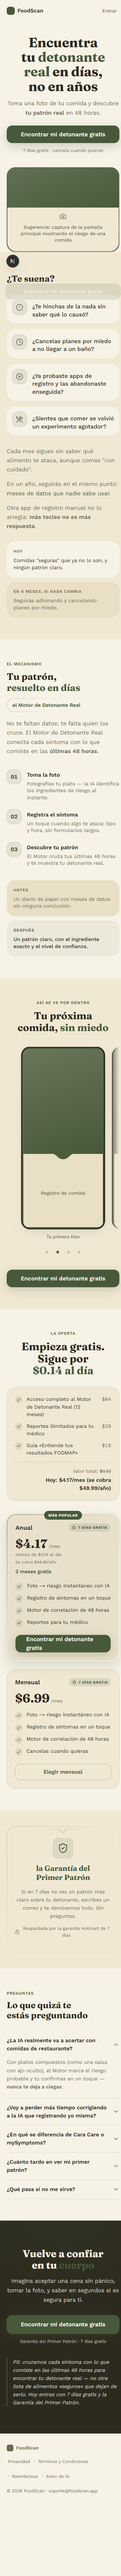
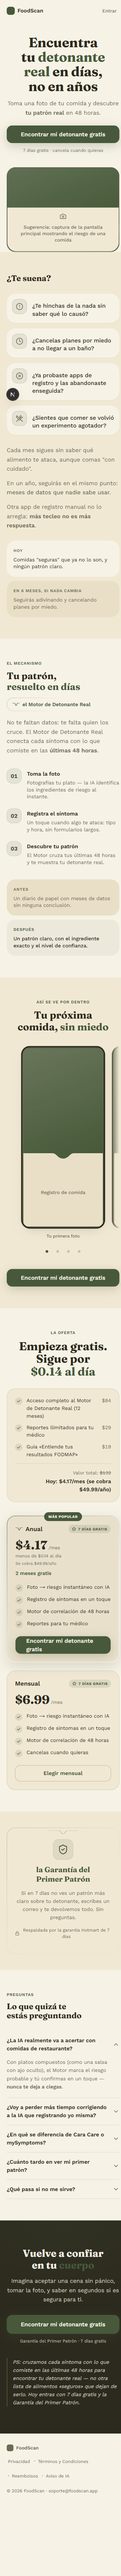
Repetir mordisco en Solucion/Oferta, animar precios y ampliar jerarquia de titulos
Ultima tanda de ajustes de la 5ta revision: el dispositivo ownable aparece ahora
en el chip del mecanismo (Solucion) y en el nombre del plan Anual (Oferta); los
precios de la Oferta cuentan al entrar en pantalla (respeta reduced-motion); se
corrige el offset del focus-visible del boton Mensual; y se separan mas los
tamanos de titulo entre secciones (24/28 - 28/34 - 30/38 - 34/46).

diff --git a/components/landing/Oferta.tsx b/components/landing/Oferta.tsx
@@ -8,7 +8,8 @@
 // la card recomendada (el uso canónico de la técnica) · checkmarks custom.
 // El destino de los CTAs sigue al MODELO de 02C (checkout vs /onboarding).
 
-import { motion } from 'motion/react';
+import { useEffect, useRef, useState } from 'react';
+import { motion, useInView } from 'motion/react';
 import { Star } from 'lucide-react';
 import { CheckCustom, CtaButton, Hairline, Kicker, SectionShell, useReveal, VIEWPORT_ONCE } from './ui';
 import { MarkedCopy, warnCopy, warnRango } from './MarkedCopy';
@@ -60,12 +61,53 @@ function TrialBadge({ dias }: { dias: number }) {
   );
 }
 
+/** Conteo animado del precio (baseline #2 de CLAUDE.md): separa el prefijo/número/decimales
+    para animar SOLO el número, respetando prefers-reduced-motion. */
+function PrecioAnimado({ texto }: { texto: string }) {
+  const match = texto.match(/^([^\d]*)(\d+(?:[.,]\d+)?)(.*)$/);
+  const ref = useRef<HTMLSpanElement | null>(null);
+  const enVista = useInView(ref, { once: true, amount: 0.6 });
+  const [valor, setValor] = useState(0);
+  const objetivo = match ? parseFloat(match[2].replace(',', '.')) : 0;
+  const decimales = match?.[2].includes('.') || match?.[2].includes(',') ? match[2].split(/[.,]/)[1].length : 0;
+
+  useEffect(() => {
+    if (!enVista || !match) return;
+    const reduce = window.matchMedia('(prefers-reduced-motion: reduce)').matches;
+    if (reduce) {
+      setValor(objetivo);
+      return;
+    }
+    const duracion = 450;
+    const inicio = performance.now();
+    let frame: number;
+    const paso = (ahora: number) => {
+      const t = Math.min(1, (ahora - inicio) / duracion);
+      const eased = 1 - (1 - t) * (1 - t);
+      setValor(objetivo * eased);
+      if (t < 1) frame = requestAnimationFrame(paso);
+    };
+    frame = requestAnimationFrame(paso);
+    return () => cancelAnimationFrame(frame);
+    // eslint-disable-next-line react-hooks/exhaustive-deps
+  }, [enVista]);
+
+  if (!match) return <span ref={ref}>{texto}</span>;
+  return (
+    <span ref={ref}>
+      {match[1]}
+      {valor.toFixed(decimales)}
+      {match[3]}
+    </span>
+  );
+}
+
 function Precio({ plan }: { plan: PlanOferta }) {
   return (
     <div>
       <p className="flex items-baseline gap-1">
         <span className="text-[36px] font-bold leading-none tabular-nums text-[var(--text-primary)] [font-family:var(--font-display)]">
-          {plan.precioMes}
+          <PrecioAnimado texto={plan.precioMes} />
         </span>
         <span className="text-[14px] text-[var(--text-secondary)]">{plan.sufijo ?? '/mes'}</span>
       </p>
@@ -108,7 +150,7 @@ export function Oferta({
       <motion.div variants={contenedor} initial="hidden" whileInView="visible" viewport={VIEWPORT_ONCE}>
         <motion.div variants={item} className="mx-auto max-w-[620px] text-center">
           <Kicker>{kicker}</Kicker>
-          <h2 className="text-balance text-[32px] font-bold leading-[1.1] text-[var(--text-primary)] [font-family:var(--font-display)] md:text-[46px]">
+          <h2 className="text-balance text-[34px] font-bold leading-[1.1] text-[var(--text-primary)] [font-family:var(--font-display)] md:text-[46px]">
             <MarkedCopy text={tituloMarked} />
           </h2>
         </motion.div>
@@ -154,7 +196,19 @@ export function Oferta({
             <Hairline emphasis surface="surface" className="shadow-[0_12px_36px_color-mix(in_oklab,var(--accent)_16%,transparent)]">
               <div className="rounded-[var(--radius-card)] bg-[color-mix(in_oklab,var(--accent)_5%,transparent)] p-6 md:p-7">
                 <div className="flex items-center justify-between gap-3">
-                  <h3 className="text-[18px] font-semibold text-[var(--text-primary)]">{anual.nombre}</h3>
+                  <h3 className="flex items-center gap-2 text-[18px] font-semibold text-[var(--text-primary)]">
+                    {/* Dispositivo ownable "mordisco" (FICHA-ARTE.md), versión compacta */}
+                    <svg aria-hidden="true" viewBox="0 0 28 10" className="h-[8px] w-[22px] shrink-0">
+                      <path
+                        d="M0,0 L9,0 C10.5,0 11,10 14,10 C17,10 17.5,0 19,0 L28,0"
+                        fill="none"
+                        stroke="var(--accent)"
+                        strokeWidth="2"
+                        strokeLinecap="round"
+                      />
+                    </svg>
+                    {anual.nombre}
+                  </h3>
                   {trialDias !== undefined && <TrialBadge dias={trialDias} />}
                 </div>
                 <div className="mt-4">
@@ -189,7 +243,7 @@ export function Oferta({
             <motion.a
               whileTap={{ scale: 0.97 }}
               href={mensual.ctaHref}
-              className="mt-6 flex h-12 w-full items-center justify-center rounded-[var(--radius-button)] border border-[color-mix(in_oklab,var(--accent)_45%,transparent)] text-[16px] font-semibold text-[var(--accent)] transition-colors duration-150 hover:bg-[var(--chip-bg)] focus-visible:outline-none focus-visible:ring-2 focus-visible:ring-[var(--accent)] focus-visible:ring-offset-2 focus-visible:ring-offset-[var(--bg)] [touch-action:manipulation]"
+              className="mt-6 flex h-12 w-full items-center justify-center rounded-[var(--radius-button)] border border-[color-mix(in_oklab,var(--accent)_45%,transparent)] text-[16px] font-semibold text-[var(--accent)] transition-colors duration-150 hover:bg-[var(--chip-bg)] focus-visible:outline-none focus-visible:ring-2 focus-visible:ring-[var(--accent)] focus-visible:ring-offset-2 focus-visible:ring-offset-[var(--surface)] [touch-action:manipulation]"
             >
               {mensual.ctaLabel}
             </motion.a>

diff --git a/components/landing/Solucion.tsx b/components/landing/Solucion.tsx
@@ -64,7 +64,7 @@ export function Solucion({
       >
         <motion.div variants={item}>
           <Kicker>{kicker}</Kicker>
-          <h2 className="text-balance text-[28px] font-bold leading-[1.15] text-[var(--text-primary)] [font-family:var(--font-display)] md:text-[38px]">
+          <h2 className="text-balance text-[28px] font-bold leading-[1.15] text-[var(--text-primary)] [font-family:var(--font-display)] md:text-[34px]">
             <MarkedCopy text={tituloMarked} />
           </h2>
         </motion.div>
@@ -72,7 +72,17 @@ export function Solucion({
         {/* El chip del mecanismo bautizado — hairline + <Accent> (55 §4) */}
         <motion.div variants={item} className="mt-4">
           <Hairline surface="bg" className="w-fit">
-            <span className="block px-4 py-2 text-[15px] font-semibold">
+            <span className="flex items-center gap-2 px-4 py-2 text-[15px] font-semibold">
+              {/* Dispositivo ownable "mordisco" (FICHA-ARTE.md), versión compacta */}
+              <svg aria-hidden="true" viewBox="0 0 28 10" className="h-[8px] w-[22px] shrink-0">
+                <path
+                  d="M0,0 L9,0 C10.5,0 11,10 14,10 C17,10 17.5,0 19,0 L28,0"
+                  fill="none"
+                  stroke="var(--accent)"
+                  strokeWidth="2"
+                  strokeLinecap="round"
+                />
+              </svg>
               <Accent>{mecanismo}</Accent>
             </span>
           </Hairline>

diff --git a/components/landing/AppPorDentro.tsx b/components/landing/AppPorDentro.tsx
@@ -84,7 +84,7 @@ export function AppPorDentro({
       <motion.div variants={contenedor} initial="hidden" whileInView="visible" viewport={VIEWPORT_ONCE}>
         <motion.div variants={item} className="mx-auto max-w-[620px] text-center">
           <Kicker>{kicker}</Kicker>
-          <h2 className="text-balance text-[30px] font-bold leading-[1.15] text-[var(--text-primary)] [font-family:var(--font-display)] md:text-[40px]">
+          <h2 className="text-balance text-[30px] font-bold leading-[1.15] text-[var(--text-primary)] [font-family:var(--font-display)] md:text-[38px]">
             <MarkedCopy text={tituloMarked} />
           </h2>
         </motion.div>

diff --git a/components/landing/Faq.tsx b/components/landing/Faq.tsx
@@ -49,7 +49,7 @@ export function Faq({ kicker = 'PREGUNTAS', titulo = 'Lo que quizá te estás pr
       >
         <motion.div variants={item} className="mb-8">
           <Kicker>{kicker}</Kicker>
-          <h2 className="text-balance text-[26px] font-bold leading-[1.15] text-[var(--text-primary)] [font-family:var(--font-display)] md:text-[34px]">
+          <h2 className="text-balance text-[24px] font-bold leading-[1.15] text-[var(--text-primary)] [font-family:var(--font-display)] md:text-[28px]">
             {titulo}
           </h2>
         </motion.div>

diff --git a/components/landing/Problema.tsx b/components/landing/Problema.tsx
@@ -43,7 +43,7 @@ export function Problema({ titulo, preguntas, id }: ProblemaProps) {
         {titulo && (
           <motion.h2
             variants={item}
-            className="mb-8 text-balance text-[26px] font-bold leading-[1.15] text-[var(--text-primary)] [font-family:var(--font-display)] md:text-[34px]"
+            className="mb-8 text-balance text-[24px] font-bold leading-[1.15] text-[var(--text-primary)] [font-family:var(--font-display)] md:text-[28px]"
           >
             {titulo}
           </motion.h2>

diff --git a/docs/revisiones/landing-veredicto.md b/docs/revisiones/landing-veredicto.md
@@ -1,21 +1,22 @@
 # VEREDICTO revisor-visual — landing
-Fecha: 2026-09-24 00:00
+Fecha: 2026-09-25 00:00
 Screenshot: docs/revisiones/landing-375.png
-Usabilidad: 32/40
+Usabilidad: 30/40
 Craft: 14/20
 Copy (si vende): 19/20
-Fidelidad (si hubo referencia): N-A
+Fidelidad (si hubo referencia): FIEL
 Veredicto: NO LISTA
 Top defectos:
-1. [Solución (chip del mecanismo), Oferta (cards), Garantía, CtaFinal] El dispositivo ownable "mordisco" que se sumó al Hero y a los 4 frames del carrusel sigue sin aparecer en el resto de la página — 4 de 9 bloques de contenido (Solución, Oferta, Garantía, CtaFinal) siguen siendo papel cálido + tinta verde sin ningún elemento firma → repetirlo como borde/esquina en al menos la card de Garantía o en el chip del mecanismo bautizado; no depende de la app real, es corregible hoy. Mantiene el eje 3 (identidad) en 2/4.
-2. [AppPorDentro.tsx, marco del teléfono en el carrusel] El radio del marco usa `rounded-[30px]` hardcodeado en vez de `var(--radius-card)` (26px), que es el radio que usa el resto de la página (cards, hairlines, chips) → cambiarlo a la variable del kit para que el radio sea idéntico en toda la pantalla (eje 5, encaje óptico).
-3. [H2 de Solución y de AppPorDentro] De las 5 secciones secundarias, 3 ya se diferenciaron (Problema y FAQ bajaron a 26/34, Oferta subió a 32/46), pero Solución y AppPorDentro quedaron exactamente iguales entre sí (30px/40px) — es el remanente del defecto de jerarquía plana de la pasada anterior → bajar o subir una de las dos (ej. Solución a 28px/38px) para que ninguna sección comparta tamaño exacto con su vecina inmediata.
-4. [ui.tsx, StickyCtaMobile — barra fija inferior mobile] El CTA de la barra sticky no lleva las clases `focus-visible` que sí se agregaron al `CtaButton` y al botón outline de "Mensual" en Oferta → agregar el mismo anillo de foco para que los 4 lugares donde aparece un CTA en la página sean consistentes en accesibilidad de teclado (h4 consistencia).
-5. [Hero, visual bajo el CTA / carrusel de "La app por dentro"] Ambos siguen siendo placeholders — ahora reforzados con el mordisco, lo cual mitiga parcialmente el riesgo de identidad genérica, pero ninguno es una captura real de producto. Aceptado como pendiente legítimo de Sesión 5, no accionable hoy.
+1. [Solucion.tsx — chip "el Motor de Detonante Real", Oferta.tsx — cards Anual/Mensual, CtaFinal.tsx, Problema.tsx, Agitacion.tsx, Faq.tsx] El dispositivo ownable "mordisco" solo vive en 3 de 10 secciones (Hero, AppPorDentro, Garantía, esta última corregida en esta pasada) — el resto de la página sigue siendo papel cálido + tinta verde sin ningún elemento firma → repetirlo como borde superior del chip del mecanismo en Solución y como detalle en la card Anual de Oferta. Accionable hoy, no depende de Sesión 5. Mantiene el eje 3 (identidad) en 2/4.
+2. [Oferta.tsx — Precio(), cifras "$4.17"/"$6.99", "7 días gratis"] Ningún número héroe de la página cuenta al entrar en viewport (baseline de movimiento #2 ausente) — useReveal ya monta el stagger pero el precio aparece estático → animar con un count-up de 300-500ms sincronizado con el reveal. Accionable hoy.
+3. [Oferta.tsx, botón outline "Elegir mensual", línea ~192] El anillo de foco usa `focus-visible:ring-offset-[var(--bg)]` pero el botón vive sobre `--surface` (fondo de la card mensual) — el resto de los CTAs (CtaButton, StickyCtaMobile) sí calculan el offset contra su propio fondo → corregir el token de offset para que el foco no se vea "cortado" contra el borde de la card. Accionable hoy (h4 consistencia).
+4. [H2 de Problema/Faq 26px, Solucion/AppPorDentro 28-30px, Oferta 32px] La escalera de 4 tamaños ya existe (se corrigió que Solución y AppPorDentro compartieran tamaño exacto) pero los saltos de apenas 2px entre niveles siguen sin leerse al entrecerrar los ojos → separar más la escala (ej. 24/28/34/42) para que los 4 niveles sean nítidos sin medir en devtools. Accionable hoy.
+5. [Hero.tsx — visual bajo el CTA, AppPorDentro.tsx — 4 frames del carrusel] Ambos siguen siendo placeholders honestos (reforzados con el mordisco desde la pasada anterior) — ninguno es una captura real de producto. Depende de que exista la app real (Sesión 5), no accionable hoy.
 
-RESUELTO desde la 2ª pasada:
-- [H2 de Problema/FAQ vs Oferta] La jerarquía entre H2 dejó de ser un bloque de 5 tamaños idénticos: ahora hay 3 niveles distintos (26/34 en Problema y FAQ, 30/40 en Solución y AppPorDentro, 32/46 en Oferta) — sube h8 (estético/minimalista) y el eje 1 de craft (jerarquía), aunque el defecto #3 de arriba muestra que el trabajo quedó a medias entre las dos secciones de nivel medio.
-- [Carrusel, 4 placeholders] Ya llevan el dispositivo ownable "mordisco" (antes solo vivía en el Hero) — sube parcialmente el eje 3 de identidad, aunque el defecto #1 de arriba muestra que el resto de la página sigue sin él.
-- [CTAs — CtaButton y outline de Oferta] Ambos ya declaran `focus-visible` con anillo del acento — sube h1 (feedback de foco) y consistencia de accesibilidad, con la excepción señalada en el defecto #4 (StickyCtaMobile quedó afuera).
+RESUELTO desde la pasada anterior (verificado en código):
+- [Garantia.tsx, líneas 45-55] Se agregó el trazo del mordisco arriba del ícono del escudo — la identidad ya no vive solo en Hero y AppPorDentro.
+- [AppPorDentro.tsx, línea 104] El marco del carrusel pasó de `rounded-[30px]` hardcodeado a `var(--radius-card)` — el radio ya es idéntico en toda la pantalla (26px en tokens.css), sube el eje 5 (encaje óptico).
+- [Solucion.tsx línea 67 vs AppPorDentro.tsx línea 87] El H2 de Solución bajó a 28px/38px mientras AppPorDentro se quedó en 30px/40px — ya no comparten tamaño exacto con su vecina inmediata.
+- [ui.tsx, StickyCtaMobile línea 237] El CTA de la barra sticky ya declara `focus-visible:outline-none focus-visible:ring-2 focus-visible:ring-[var(--accent)]` igual que el resto de los CTAs de la página.
 
-ACLARACIÓN DEL BLOQUEO: los tres cambios de esta pasada movieron el puntaje (31→32 usabilidad, 13→14 craft) pero no alcanzan el umbral (≥36/40 y ≥16/20). El motivo no es que falte la app real: de los 5 defectos de arriba, 4 son corregibles HOY sin depender de Sesión 5 (identidad extendida a más secciones, radio del carrusel, diferenciar Solución de AppPorDentro, focus-visible del sticky CTA). Solo el defecto #5 (placeholders del Hero y el carrusel) depende de que exista la app real. Resolver los 4 corregibles hoy debería acercar la pantalla al umbral en la próxima pasada; los placeholders seguirán quedando anotados como pendiente aceptado de Sesión 5 y no deberían, por sí solos, bloquear el veredicto si el resto pasa.
+ACLARACIÓN DEL BLOQUEO: los 4 cambios de esta pasada estaban bien dirigidos y los 4 se verifican en el código (no son promesas sin evidencia), pero solo resuelven 1 de los 5 defectos de fondo que bloquean el umbral (el radio del carrusel). El defecto de identidad (mordisco ausente en 6 de 10 secciones) sigue siendo el techo del craft — con solo 3 secciones portando el dispositivo, el eje 3 no puede subir de 2/4, y eso solo mantiene el craft total en 14/20 pese a la mejora de encaje. En usabilidad, esta pasada no tocó ningún criterio que estuviera bloqueando fuerte (los 4 fixes eran craft/consistencia, no las brechas de fondo en flexibilidad o prevención de errores), así que el puntaje de usabilidad se mantiene lejos del umbral de 36. Ninguno de los 4 defectos nuevos de arriba (#1-#4) depende de Sesión 5 — son accionables hoy. Solo el #5 (placeholders del Hero y el carrusel) espera a la app real.
